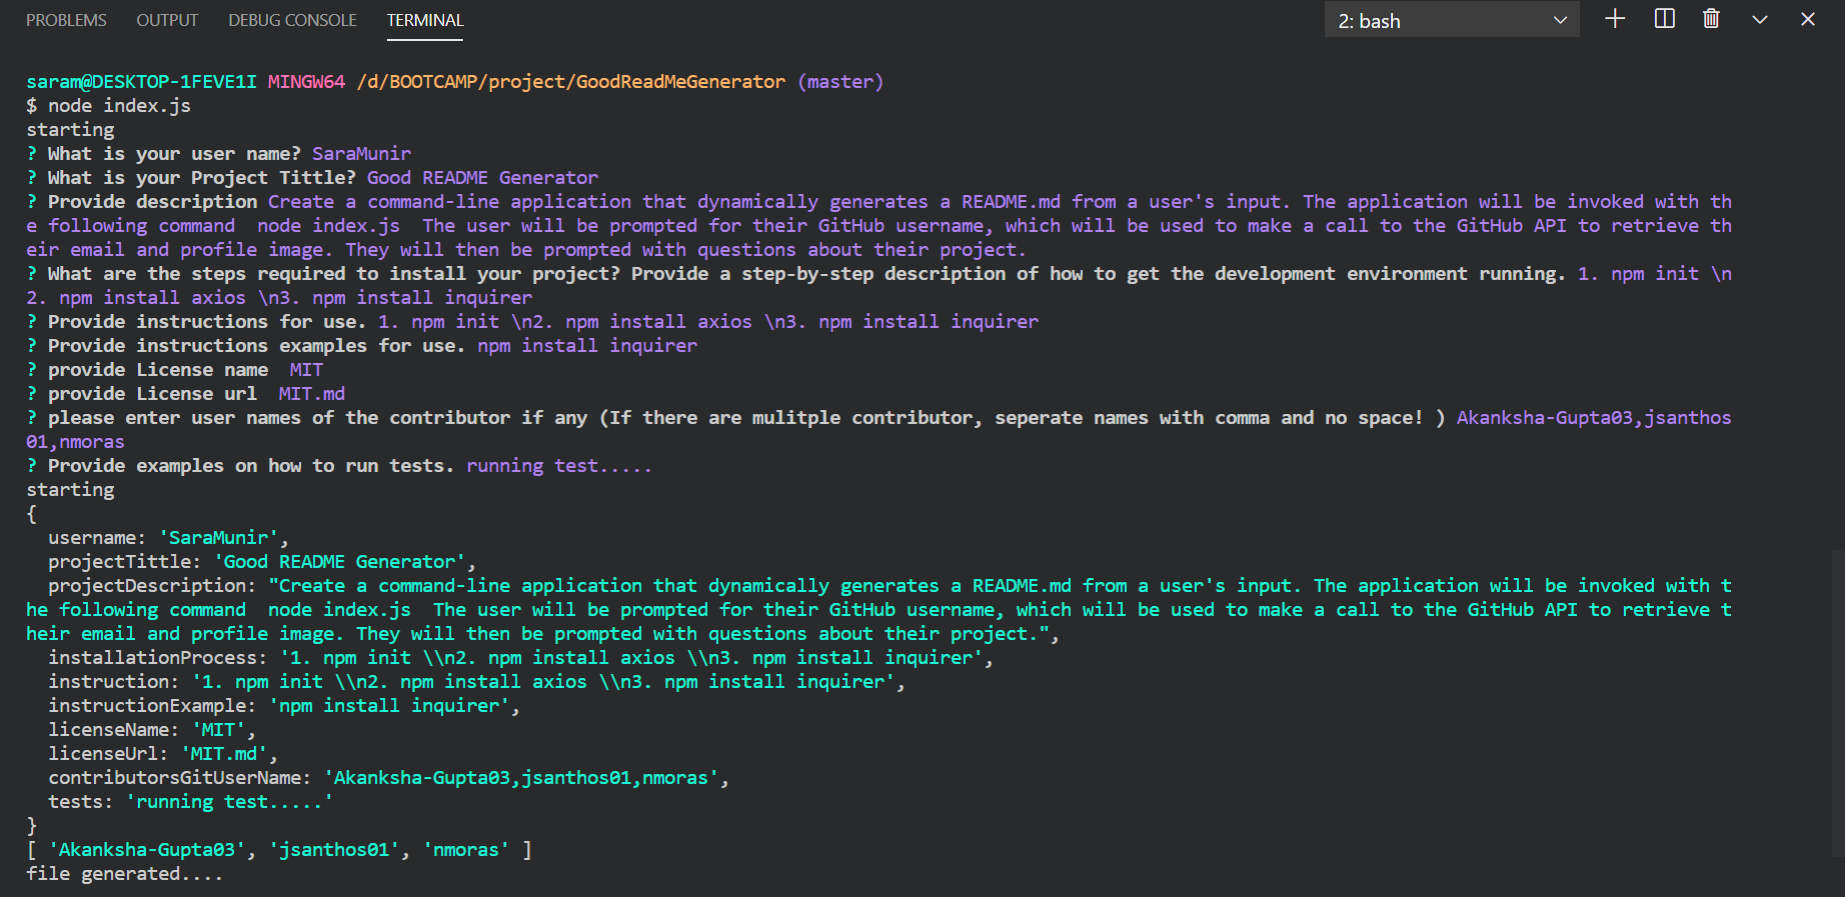
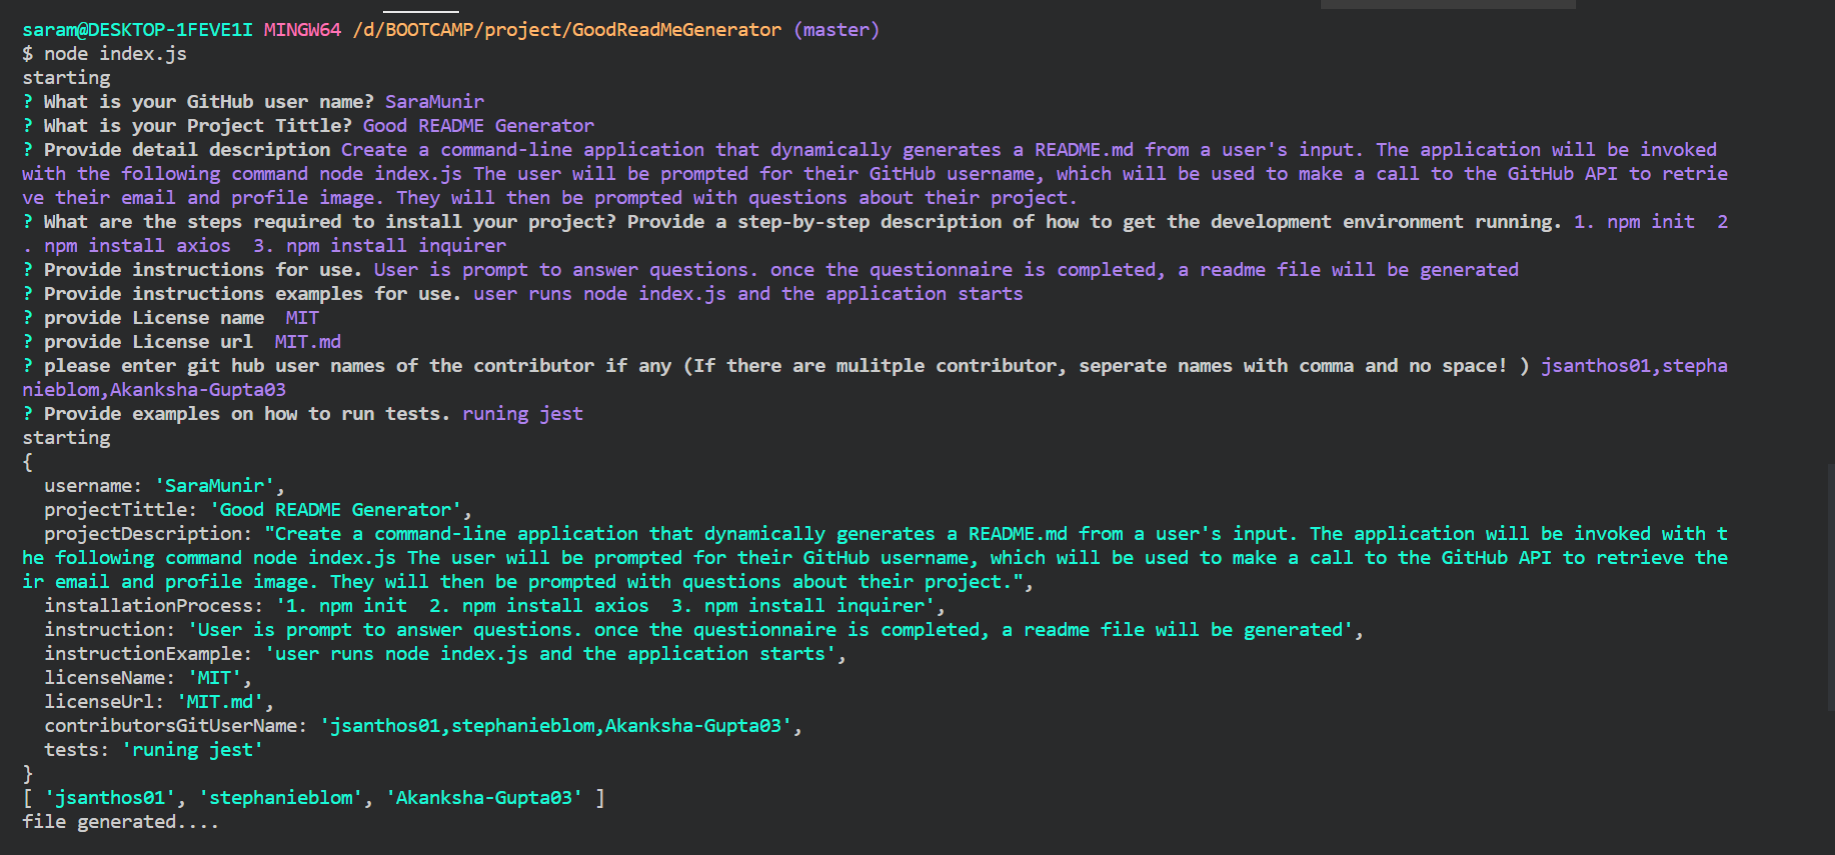
made some changes

Changed region(s): [[0.0, 0.0, 0.9629, 1.0], [0.8698, 0.0, 0.9319, 0.0304], [0.7144, 0.0, 0.7766, 0.0304]]

diff --git a/index.js b/index.js
@@ -8,7 +8,7 @@ async function main(){
     .prompt([
         {
             type: "input",
-            message: "What is your user name?",
+            message: "What is your GitHub user name?",
             name: "username"
         },
         {
@@ -18,7 +18,7 @@ async function main(){
         },
         {
             type: "input",
-            message: "Provide description",
+            message: "Provide detail description",
             name: "projectDescription"
         },
         {
@@ -48,7 +48,7 @@ async function main(){
         },
         {
             type: "input",
-            message: "please enter user names of the contributor if any (If there are mulitple contributor, seperate names with comma and no space! )",
+            message: "please enter git hub user names of the contributor if any (If there are mulitple contributor, seperate names with comma and no space! )",
             name: "contributorsGitUserName"
         },
         {
@@ -69,7 +69,6 @@ async function main(){
         const licenseUrl = userResponse.licenseUrl;
         const contributorUserNames = userResponse.contributorsGitUserName;
         const tests = userResponse.tests;
-
             // fetching data from git
             // user
         const gitResponse = await axios.get(`https://api.github.com/users/${gitUsername}`);
@@ -92,25 +91,21 @@ async function main(){
             var gitContribuUrl = gitResponse2.data.html_url;
             var gitContribuEmail = gitResponse2.data.email;
             var resultContributor = resultContributor + (`
-            \n${contributorsGitUserName}
-            \n<img src="${gitContribuProfileImage}" alt="drawing" width="150" display="inline"/>
-            \nLink: ${gitContribuUrl}
-            \nEmail: ${gitContribuEmail}`);
+            \n <img src="${gitContribuProfileImage}" alt="drawing" width="150" display="inline"/> ${contributorsGitUserName}  GitHubLink: ${gitContribuUrl}`);
         }
         var result = (`
 # ${projectTittle} 
 ${projectDescription}
 \n* [Installation](#Installation)
+\n* [Instructions](#Instructions)
 \n* [License](#License)
 \n* [Contributors](#Contributors)
 \n* [Author](#Author)
 \n* [Tests](#Tests)
 
 ## Installation
-\`\`\`
 ${installationProcess}
-\`\`\`
-### Instructions
+## Instructions
 ${instruction}
 \`\`\`
 ${instructionExample}

diff --git a/README.md b/README.md
@@ -1,8 +1,10 @@
 
 # Good README Generator 
-Create a command-line application that dynamically generates a README.md from a user's input. The application will be invoked with the following command  node index.js  The user will be prompted for their GitHub username, which will be used to make a call to the GitHub API to retrieve their email and profile image. They will then be prompted with questions about their project.
+Create a command-line application that dynamically generates a README.md from a user's input. The application will be invoked with the following command node index.js The user will be prompted for their GitHub username, which will be used to make a call to the GitHub API to retrieve their email and profile image. They will then be prompted with questions about their project.
 
 * [Installation](#Installation)
+
+* [Instructions](#Instructions)
 
 * [License](#License)
 
@@ -13,44 +15,24 @@ Create a command-line application that dynamically generates a README.md from a 
 * [Tests](#Tests)
 
 ## Installation
+1. npm init  2. npm install axios  3. npm install inquirer
+## Instructions
+User is prompt to answer questions. once the questionnaire is completed, a readme file will be generated
 ```
-1. npm init \n2. npm install axios \n3. npm install inquirer
-```
-### Instructions
-1. npm init \n2. npm install axios \n3. npm install inquirer
-```
-npm install inquirer
+user runs node index.js and the application starts
 ```
 ## License 
 This project is licensed under the MIT - see the MIT.md file for details
 ## Contributors
 undefined
             
-Akanksha-Gupta03
+ <img src="https://avatars2.githubusercontent.com/u/55720502?v=4" alt="drawing" width="150" display="inline"/> jsanthos01  GitHubLink: https://github.com/jsanthos01
             
-<img src="https://avatars2.githubusercontent.com/u/59745460?v=4" alt="drawing" width="150" display="inline"/>
+ <img src="https://avatars2.githubusercontent.com/u/58857277?v=4" alt="drawing" width="150" display="inline"/> stephanieblom  GitHubLink: https://github.com/stephanieblom
             
-Link: https://github.com/Akanksha-Gupta03
-            
-Email: null
-            
-jsanthos01
-            
-<img src="https://avatars2.githubusercontent.com/u/55720502?v=4" alt="drawing" width="150" display="inline"/>
-            
-Link: https://github.com/jsanthos01
-            
-Email: null
-            
-nmoras
-            
-<img src="https://avatars0.githubusercontent.com/u/47071232?v=4" alt="drawing" width="150" display="inline"/>
-            
-Link: https://github.com/nmoras
-            
-Email: null
+ <img src="https://avatars2.githubusercontent.com/u/59745460?v=4" alt="drawing" width="150" display="inline"/> Akanksha-Gupta03  GitHubLink: https://github.com/Akanksha-Gupta03
 ## Tests
-running test.....
+runing jest
 ## Author 
 
 ![ProfileImage](https://avatars0.githubusercontent.com/u/50241569?v=4)
@@ -62,7 +44,3 @@ Email: null
 Location:Toronto
 
 GitHub: https://github.com/SaraMunir
-## ScreenShots of the generated Read me
-
-<img src="assets/terminalScreenShot.png" alt="drawing" width="" display="inline"/>
-            
